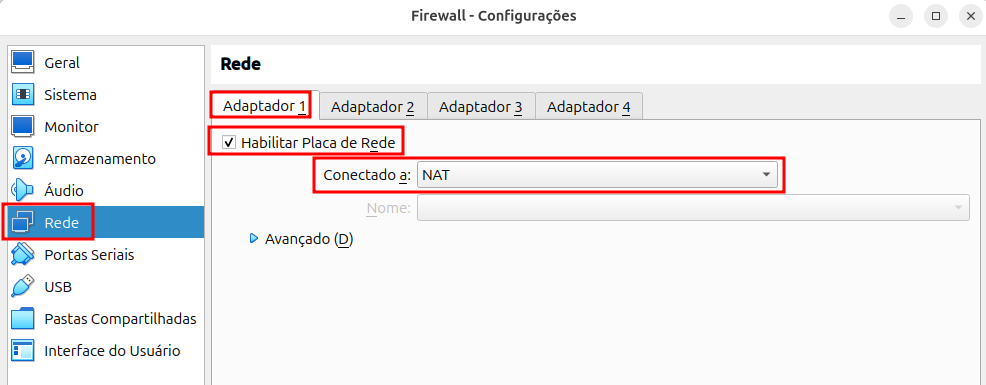
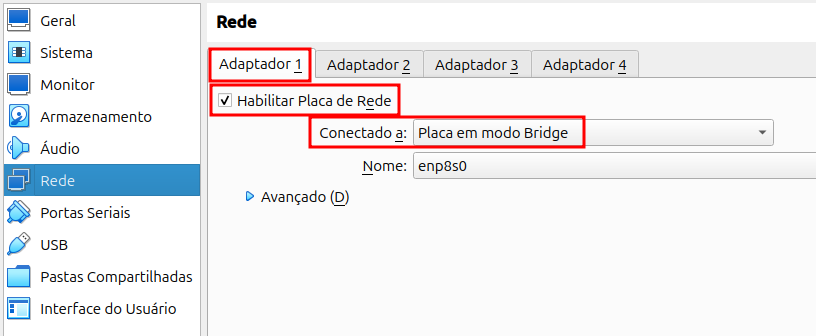
Atualização das instrucões da infra

diff --git a/1.firewall/Infraestrutura.md b/1.firewall/Infraestrutura.md
@@ -31,7 +31,7 @@ Salve a ISO, por exemplo, em:
 | CPUs | 1 vCPU |  |
 | Disco | 15 GB (VDI dinâmico) | Controladora SATA; VDI dinâmico economiza espaço |
 | Vídeo | 16 MB, VMSVGA |  |
-| Rede | NAT ou Bridge | Para acesso à Internet |
+| Rede | Bridge | Para acesso à Internet |
 | | Rede Interna "DMZ"| Para a rede DMZ |
 | | Rede Interna "LAN_Empresa"| Para a rede LAN Empresa |
 
@@ -48,13 +48,14 @@ Salve a ISO, por exemplo, em:
 
 <br/>
 
-1. **Abrir o VirtualBox** → **Novo** (ou *Machine » New*).  
+### 1. **Abrir o VirtualBox** → **Novo** (ou *Machine » New*).  
 
 ![vBox Novo](../Imagens/vbox_clique_novo.png)
 
 <br/>
 
-2. Nome e Sistema Opereacional
+### 2. Nome e Sistema Operacional
+
   - **Nome**: `Firewall`
   - **Image ISO**: Selecione o arquivo `.iso` do Debian   
   - **Tipo**: Linux
@@ -65,7 +66,7 @@ Salve a ISO, por exemplo, em:
 
 <br/>
 
-3. Hardware
+### 3. Hardware
   - **Memória Base**: `1024 MB`
   - **Processadores**: 1 CPU   
   - **Habilitar EFI**: Desmarque
@@ -74,18 +75,21 @@ Salve a ISO, por exemplo, em:
 
 <br/>
 
-4. Disco Rígido
+### 4. Disco Rígido
+
   - **Tamaho do Disco Virtual**: 15 GB
 
 ![vBox Hardware](../Imagens/vbox_disco.png)
 
 <br/>
 
-5. Clique em **Finalizar**
+### 5. Clique em **Finalizar**
+
+Nada demais, só clicar em `Finalizar` mesmo 🤷♂.
 
 <br/>
 
-6. Configure as interfaces de rede
+### 6. Configure as interfaces de rede
 
   - Na tela do VirtualBox, selecione a VM **Firewall** e clique em **Configurações**
 
@@ -95,7 +99,7 @@ Salve a ISO, por exemplo, em:
 
   - No menu lateral, clique em **Rede** e configure o `Adaptador 1` conforme está abaixo:
     - **Habilitar Placa de Rede**: Marque 
-    - **Conectado a**: `NAT` ou `Placa em modo Bridge`
+    - **Conectado a**: `Placa em modo Bridge`
 
 ![vBox Hardware](../Imagens/vbox_configadapt1.png)
 
@@ -127,21 +131,22 @@ Salve a ISO, por exemplo, em:
 
 <br/>
 
-1. Iniciar a VM
+### 1. Iniciar a VM
   - Selecione a VM e clique **Firewall** em **Iniciar**
 
 ![vBox Hardware](../Imagens/vbox_iniciar_vm.png)
 
 <br/>
 
-2. Menu de instalação do Debian
+### 2. Menu de instalação do Debian
   - Selecione **Graphical Install**
 
 ![vBox Hardware](../Imagens/vbox_debian_graphicinstall.png)
 
 <br/>
 
-3. Select a language (Selecione um idioma)
+### 3. Select a language (Selecione um idioma)
+
   - **Language** (Idioma): `Portuguese (Brazil)`
   - Clique em **Continue**
 
@@ -149,7 +154,7 @@ Salve a ISO, por exemplo, em:
 
 <br/>
 
-4. Selecionar sua localidade
+### 4. Selecionar sua localidade
   - **País, território ou área**: `Brasil`
   - Clique em **Continuar**
 
@@ -157,7 +162,7 @@ Salve a ISO, por exemplo, em:
 
 <br/>
 
-5. Configure o teclado
+### 5. Configure o teclado
   - **Mapa do teclado a ser usado**: `Português Brasileiro`
   - Clique em **Continuar**
 
@@ -165,7 +170,7 @@ Salve a ISO, por exemplo, em:
 
 <br/>
 
-6. Configure a rede
+### 6. Configure a rede
   - **Nome de máquina**: `Firewall`
   - Clique em **Continuar**
 
@@ -180,7 +185,7 @@ Salve a ISO, por exemplo, em:
 
 <br/>
 
-7. Configurar usuários e senhas
+### 7. Configurar usuários e senhas
   - **Senha do root**: Deixe em branco
   - Clique em **Continuar**
 
@@ -210,7 +215,7 @@ Salve a ISO, por exemplo, em:
 
 <br/>
 
-8. Configurar o relógio
+### 8. Configurar o relógio
   - **Selecione um estado ou província para definir o seu fuso horário**: Selecione o fuso horário de sua localidade.
   - Clique em **Continuar**
 
@@ -218,7 +223,7 @@ Salve a ISO, por exemplo, em:
 
 <br/>
 
-9. Particionar discos
+### 9. Particionar discos
   - **Método de particionamento**: `Assistido - usar o disco inteiro`
   - Clique em **Continuar**
 
@@ -254,7 +259,7 @@ Salve a ISO, por exemplo, em:
 
 <br/>
 
-10. Configurar o gerenciador de pacotes
+### 10. Configurar o gerenciador de pacotes
   - **Ler mídia de instalação adicional ?**: `Não`
   - Clique em **Continuar**
 
@@ -283,7 +288,7 @@ Salve a ISO, por exemplo, em:
 
 <br/>
 
-11. Configurando o popularity-contest
+### 11. Configurando o popularity-contest
   - **Participar do concurso de utilização de pacotes ?**: `Não`
   - Clique em **Continuar**
 
@@ -291,7 +296,7 @@ Salve a ISO, por exemplo, em:
 
 <br/>
 
-12. Seleção de software
+### 12. Seleção de software
   - **Escolha o software a ser instalado**: `servidor SSH` e `utilitários de sistema padrão`. Não use o `Enter` para selecionar, use a `Barra de espaco`. 
   - Clique em **Continuar**
 
@@ -299,7 +304,7 @@ Salve a ISO, por exemplo, em:
 
 <br/>
 
-13. Instalar o carregador de inicialização GRUB
+### 13. Instalar o carregador de inicialização GRUB
   - **Instalar o carregador de inicialização GRUB no seu disco primário?**: `Sim`
   - Clique em **Continuar**
 
@@ -314,13 +319,178 @@ Salve a ISO, por exemplo, em:
 
 <br/>
 
-14. Finalizar a instalação
+### 14. Finalizar a instalação
   - Remover a mídia de instalação:
     - No menu do VirtualBox clique em **Dispositivos** => **Discos Ópticos** => **Remover disco do drive virtual**. Se a última opção estiver apagada é porque o próprio VirtualBox já removeu o disco. 
   - Clique em **Continuar**
 
 ![vBox Hardware](../Imagens/vbox_debian_removerdisp.png)
 
+---
+
 <br/>
+
+## 5) Configuração de rede
+
+<br/>
+
+### 1. Coletar os endereços MAC dos adaptadores de rede no VirtualBox:
+
+<br/>
+
+No VirtualBox, selecione a VM **Firewall**, clique em **Configurações** e, na janela que abrir, clique em **Rede** no menu lateral.  Relacione o adaptador ao endereço MAC, por exemplo:
+
+![vBox Hardware](../Imagens/vbox_configadapt1_mac.png)
+
+<br/>
+
+  - `Adaptador 1`
+    - **Conectado a**: `Placa em modo Bridge`
+    - **Endereço MAC**: `080027B70C24`
+
+<br/>
+
+  - `Adaptador 2`
+    - **Conectado a**: `Rede Interna`
+    - **Nome**: `DMZ`
+    - **Endereço MAC**: `0800274F87C0`
+
+<br/>
+
+  - `Adaptador 3`
+    - **Conectado a**: `Rede Interna`
+    - **Nome**: `LanEmpresa`
+    - **Endereço MAC**: `08002773FC47`
+
+<br/>
+
+### 2. Coletar os endereços MAC dos adaptadores de rede Debian:
+
+<br/>
+
+No shell do Debian, liste as interfaces de rede com o comando abaixo
+
+```bash
+ip -brief link
+```
+
+<br/>
+
+A saída do comando:
+
+```bash
+lo               UNKNOWN        00:00:00:00:00:00 <LOOPBACK,UP,LOWER_UP> 
+enp0s3           UP             08:00:27:b7:0c:24 <BROADCAST,MULTICAST,UP,LOWER_UP> 
+enp0s8           DOWN           08:00:27:4f:87:c0 <BROADCAST,MULTICAST> 
+enp0s9           DOWN           08:00:27:73:fc:47 <BROADCAST,MULTICAST> 
+```
+
+<br/>
+
+### 3. Relacionar os interfaces de rede do Debian aos endereço MAC dos adaptadores de rede
+
+
+Com os dados coleados acima, agora podemos relacionar os adaptadores de rede do VirtualBox com as interfaces de rede do Debian pelo endereço MAC. No meu caso ficará da seguinte forma:
+
+<br/>
+
+- **Adaptador 1**
+  - **Conectado a**: `Placa em modo Bridge`
+  - **Endereço MAC**: `080027B70C24`
+  - **Interface**: `enp0s3`
+
+
+<br/>
+
+- **Adaptador 2**
+  - **Conectado a**: `Rede Interna`
+  - **Nome**: `DMZ`
+  - **Endereço MAC**: `0800274F87C0`
+  - **Interface**: `enp0s8`
+
+<br/>
+
+- **Adaptador 3**
+  - **Conectado a**: `Rede Interna`
+  - **Nome**: `LanEmpresa`
+  - **Endereço MAC**: `08002773FC47`
+  - **Interface**: `enp0s9`
+
+<br/>
+
+### 34. Configurar IPs no Debian  
+
+<br/>
+
+No shell do Debian, edite o arquivo `/etc/network/interfaces`
+
+```bash
+sudo vim /etc/network/interfaces
+```
+
+<br/>
+
+ou, use o `nano`:
+
+```bash
+sudo nano /etc/network/interfaces
+```
+
+<br/>
+
+Segue um exemplo de configuração das interfaces de rede. Se atente em atribuir corretamente os endereços IPs as interfaces de rede:
+
+```bash
+ This file describes the network interfaces available on your system
+# and how to activate them. For more information, see interfaces(5).
+
+source /etc/network/interfaces.d/*
+
+# The loopback network interface
+auto lo
+iface lo inet loopback
+
+# The primary network interface
+allow-hotplug enp0s3
+iface enp0s3 inet dhcp
+
+# The secondary network interface
+allow-hotplug enp0s8
+iface enp0s8 inet static
+	address	10.0.2.1
+	netmask	255.255.255.0
+
+# The tertiary network interface
+allow-hotplug enp0s9
+iface enp0s9 inet static
+	address	10.0.3.1
+	netmask	255.255.255.0
+``` 
+
+<br/>
+
+Reinicie o serviço de rede
+
+```bash
+sudo systemctl restart networking
+```
+
+<br/>
+
+
+Verifique a configuração
+
+```bash
+ip addr
+```
+
+<br/>
+
+
+Verifique se tem conexão com a Internet
+
+```bash
+ping google.com
+```
 
 ---
